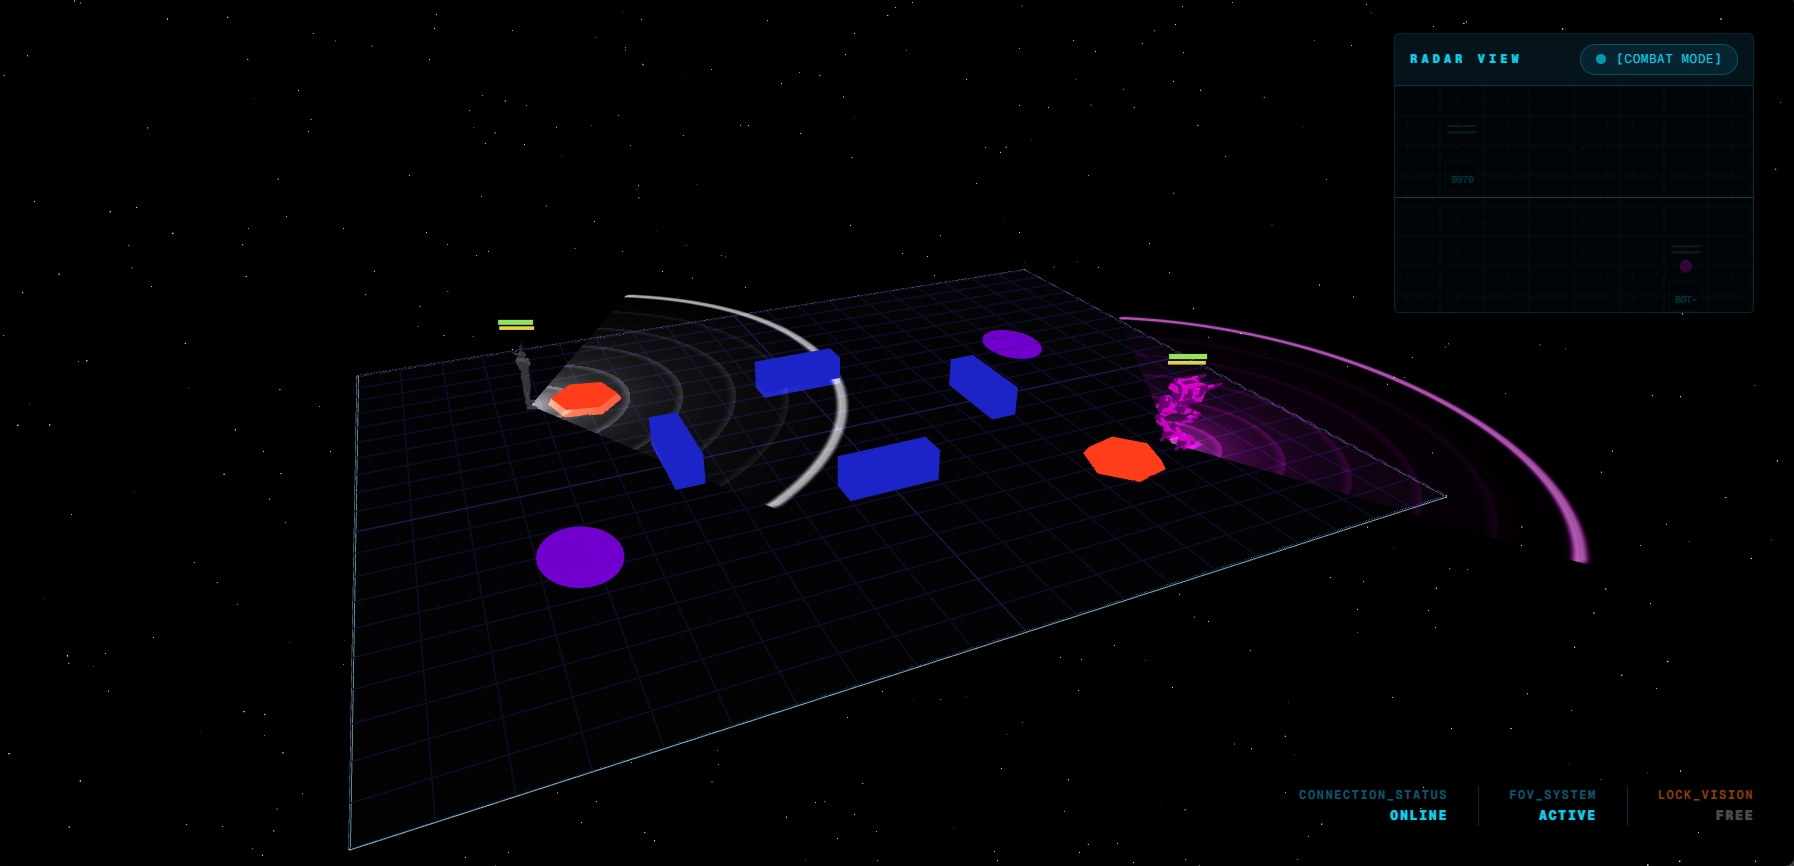
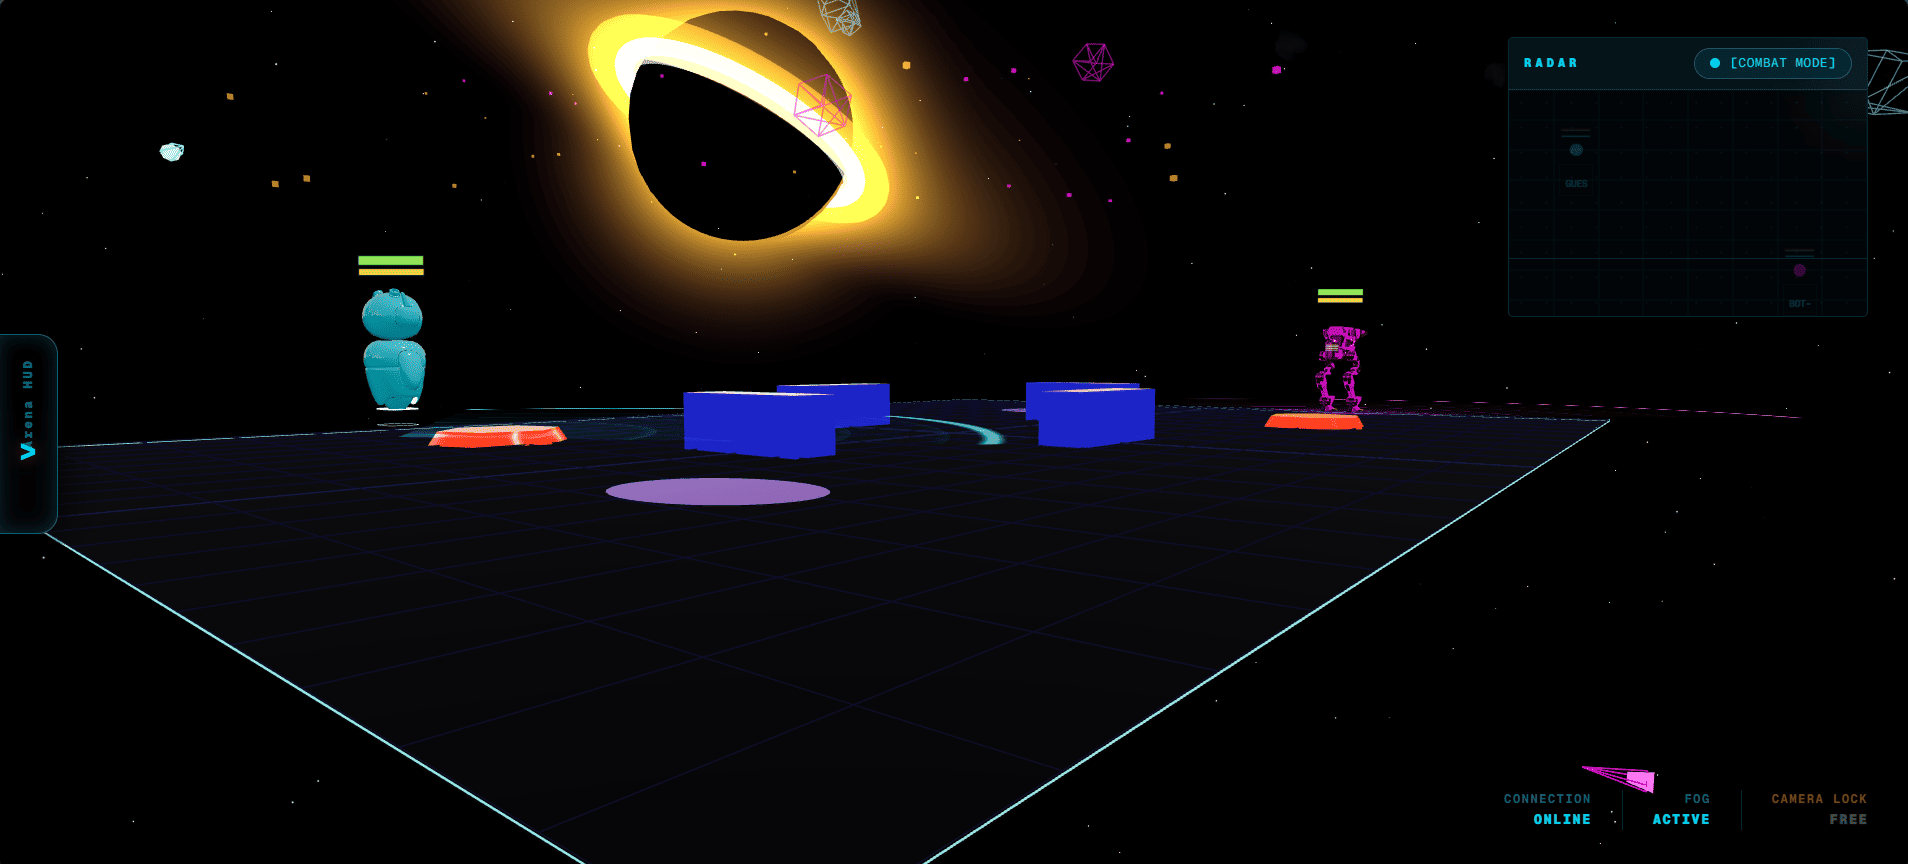
fix(mobile): resolve drag-and-drop, orientation, and audio bugs
- Fixed block dragging on touch devices by unifying dnd-kit sensors to PointerSensor and applying touch-action: none to drag handles.
- Locked initial PWA orientation to portrait via manifest.json and enforced strict viewport scaling rules to prevent iOS/Android zoom layout shifts.
- Unified Web Audio API contexts into a single global singleton, fixing suspended audio state bugs for combat/ambient sounds on mobile.
- Restored 3D spatial audio volume by routing directly to destination and added robust unmount error handling for AudioNodes.

diff --git a/apps/client/src/app/arena/components/Scene3D/DynamicEnvironment.tsx b/apps/client/src/app/arena/components/Scene3D/DynamicEnvironment.tsx
@@ -4,20 +4,19 @@ import { useFrame, useThree } from "@react-three/fiber";
 import { Sparkles, Float, Cloud, Clouds, Billboard, Instances, Instance } from "@react-three/drei";
 import { Group, Mesh, MeshBasicMaterial, Vector3, Quaternion, AdditiveBlending, DoubleSide, InstancedMesh, Matrix4, Color, Euler, Object3D } from "three";
 import { MapTheme } from "../../types";
+import { getGlobalAudioContext, getGlobalMasterGain } from "../../../../context/SoundContext";
 
 interface DynamicEnvironmentProps {
   mapTheme: MapTheme;
   graphicsQuality?: string;
 }
 
-let ambientAudioCtx: AudioContext | null = null;
-function getAmbientCtx() {
-  if (typeof window === "undefined") return null;
-  if (ambientAudioCtx) return ambientAudioCtx;
-  const Ctor = window.AudioContext || (window as any).webkitAudioContext;
-  if (!Ctor) return null;
-  ambientAudioCtx = new Ctor();
-  return ambientAudioCtx;
+export function getAmbientCtx() {
+  return getGlobalAudioContext();
+}
+
+function getAmbientMasterGain() {
+  return getGlobalMasterGain();
 }
 
 interface AmbientSynthesizerProps {
@@ -41,6 +40,7 @@ const AmbientSynthesizer = ({ position, distanceFunc, type, maxDistance = 350, m
     
     const masterGain = ctx.createGain();
     masterGain.gain.value = 0;
+    // Connect directly to destination to avoid volume collapse from global master gain
     masterGain.connect(ctx.destination);
     gainNodeRef.current = masterGain;
 
@@ -195,7 +195,7 @@ const AmbientSynthesizer = ({ position, distanceFunc, type, maxDistance = 350, m
     return () => {
       document.removeEventListener("click", resumeIfSuspended);
       masterGain.gain.value = 0;
-      masterGain.disconnect();
+      try { masterGain.disconnect(); } catch (e) {}
       nodesToDisconnect.forEach(n => {
         try { n.disconnect(); } catch(e){}
         if ((n as OscillatorNode).stop) {

diff --git a/apps/client/src/app/arena/hooks/useGameSounds.ts b/apps/client/src/app/arena/hooks/useGameSounds.ts
@@ -1,7 +1,7 @@
 "use client";
 
 import { useCallback, useRef } from "react";
-import { useSoundContext } from "../../../context/SoundContext";
+import { useSoundContext, getGlobalAudioContext, getGlobalMasterGain } from "../../../context/SoundContext";
 
 // ─── Web Audio helpers ────────────────────────────────────────────────────────
 // Re-use the same module-level AudioContext as SoundContext (same JS module
@@ -21,32 +21,9 @@ interface ToneStep {
   type: OscillatorType;
 }
 
-// Module-level AudioContext (shared with SoundContext singleton)
-let _audioCtx: AudioContext | null = null;
-let _masterGain: GainNode | null = null;
-
-interface WebKitAudioWindow extends Window {
-  webkitAudioContext?: typeof AudioContext;
-}
-
-function getArenAudioCtx(): AudioContext | null {
-  if (typeof window === "undefined") return null;
-  if (_audioCtx) return _audioCtx;
-
-  const w = window as WebKitAudioWindow;
-  const Ctor = window.AudioContext ?? w.webkitAudioContext;
-  if (!Ctor) return null;
-
-  _audioCtx = new Ctor();
-  _masterGain = _audioCtx.createGain();
-  _masterGain.gain.value = MASTER_GAIN;
-  _masterGain.connect(_audioCtx.destination);
-  return _audioCtx;
-}
-
 function playArenaSequence(steps: ToneStep[]): void {
-  const ctx = getArenAudioCtx();
-  const out = _masterGain;
+  const ctx = getGlobalAudioContext();
+  const out = getGlobalMasterGain();
   if (!ctx || !out) return;
   if (ctx.state === "suspended") void ctx.resume();
 

diff --git a/apps/client/src/context/SoundContext.tsx b/apps/client/src/context/SoundContext.tsx
@@ -41,8 +41,7 @@ function getAudioCtor(): typeof AudioContext | null {
   return window.AudioContext ?? w.webkitAudioContext ?? null;
 }
 
-function ensureAudioCtx(): AudioContext | null {
-  if (!unlocked) return null;
+export function getGlobalAudioContext(): AudioContext | null {
   if (audioCtx) return audioCtx;
   const Ctor = getAudioCtor();
   if (!Ctor) return null;
@@ -53,9 +52,13 @@ function ensureAudioCtx(): AudioContext | null {
   return audioCtx;
 }
 
+export function getGlobalMasterGain(): GainNode | null {
+  return masterGain;
+}
+
 function unlockAudio(): void {
   unlocked = true;
-  const ctx = ensureAudioCtx();
+  const ctx = getGlobalAudioContext();
   if (ctx?.state === "suspended") void ctx.resume();
   if (typeof window === "undefined") return;
   INIT_EVENTS.forEach((ev) => window.removeEventListener(ev, unlockAudio, true));
@@ -71,7 +74,7 @@ function installUnlockListeners(): void {
 }
 
 function playTone(steps: ToneStep[]): void {
-  const ctx = ensureAudioCtx();
+  const ctx = getGlobalAudioContext();
   const out = masterGain;
   if (!ctx || !out) return;
   if (ctx.state === "suspended") void ctx.resume();

diff --git a/apps/client/src/app/arena/components/CommandConsole/BlockEditor/BlockEditor.tsx b/apps/client/src/app/arena/components/CommandConsole/BlockEditor/BlockEditor.tsx
@@ -213,9 +213,8 @@ export function BlockEditor({
   const [activePaletteType, setActivePaletteType] = useState<BlockType | null>(null);
   const isTouchDevice = useMediaQuery("(pointer: coarse)");
   
-  const mouseSensor = useSensor(PointerSensor, { activationConstraint: { distance: DRAG_DISTANCE_PX } });
-  const touchSensor = useSensor(TouchSensor, { activationConstraint: { delay: 200, tolerance: 5 } });
-  const sensors = useSensors(mouseSensor, touchSensor);
+  const pointerSensor = useSensor(PointerSensor, { activationConstraint: { distance: DRAG_DISTANCE_PX } });
+  const sensors = useSensors(pointerSensor);
   
   const generatedScript = useMemo(() => generateScript(blocks), [blocks]);
 

diff --git a/apps/client/src/app/layout.tsx b/apps/client/src/app/layout.tsx
@@ -1,4 +1,4 @@
-import type { Metadata } from "next";
+import type { Metadata, Viewport } from "next";
 import { Space_Grotesk, Geist_Mono, Alexandria } from "next/font/google";
 import Script from "next/script";
 import "./globals.css";
@@ -111,6 +111,14 @@ export const metadata: Metadata = {
   verification: {
     google: "5N0GMr8mxTY9zb0A9rUhrHZo39jdVfRAbAM_h_FYcTg",
   },
+};
+
+export const viewport: Viewport = {
+  width: "device-width",
+  initialScale: 1,
+  maximumScale: 1,
+  userScalable: false,
+  viewportFit: "cover",
 };
 
 export default function RootLayout({

diff --git a/apps/client/src/app/arena/components/CommandConsole/BlockEditor/Block.tsx b/apps/client/src/app/arena/components/CommandConsole/BlockEditor/Block.tsx
@@ -235,6 +235,7 @@ export function Block({
               style={{
                 minHeight: ACTION_BUTTON_SIZE_PX,
                 minWidth: ACTION_BUTTON_SIZE_PX,
+                touchAction: "none",
                 color: "rgba(var(--arena-white-rgb),0.55)",
                 background: "rgba(var(--arena-white-rgb),0.06)",
                 border: "1px solid rgba(var(--arena-white-rgb),0.1)",
